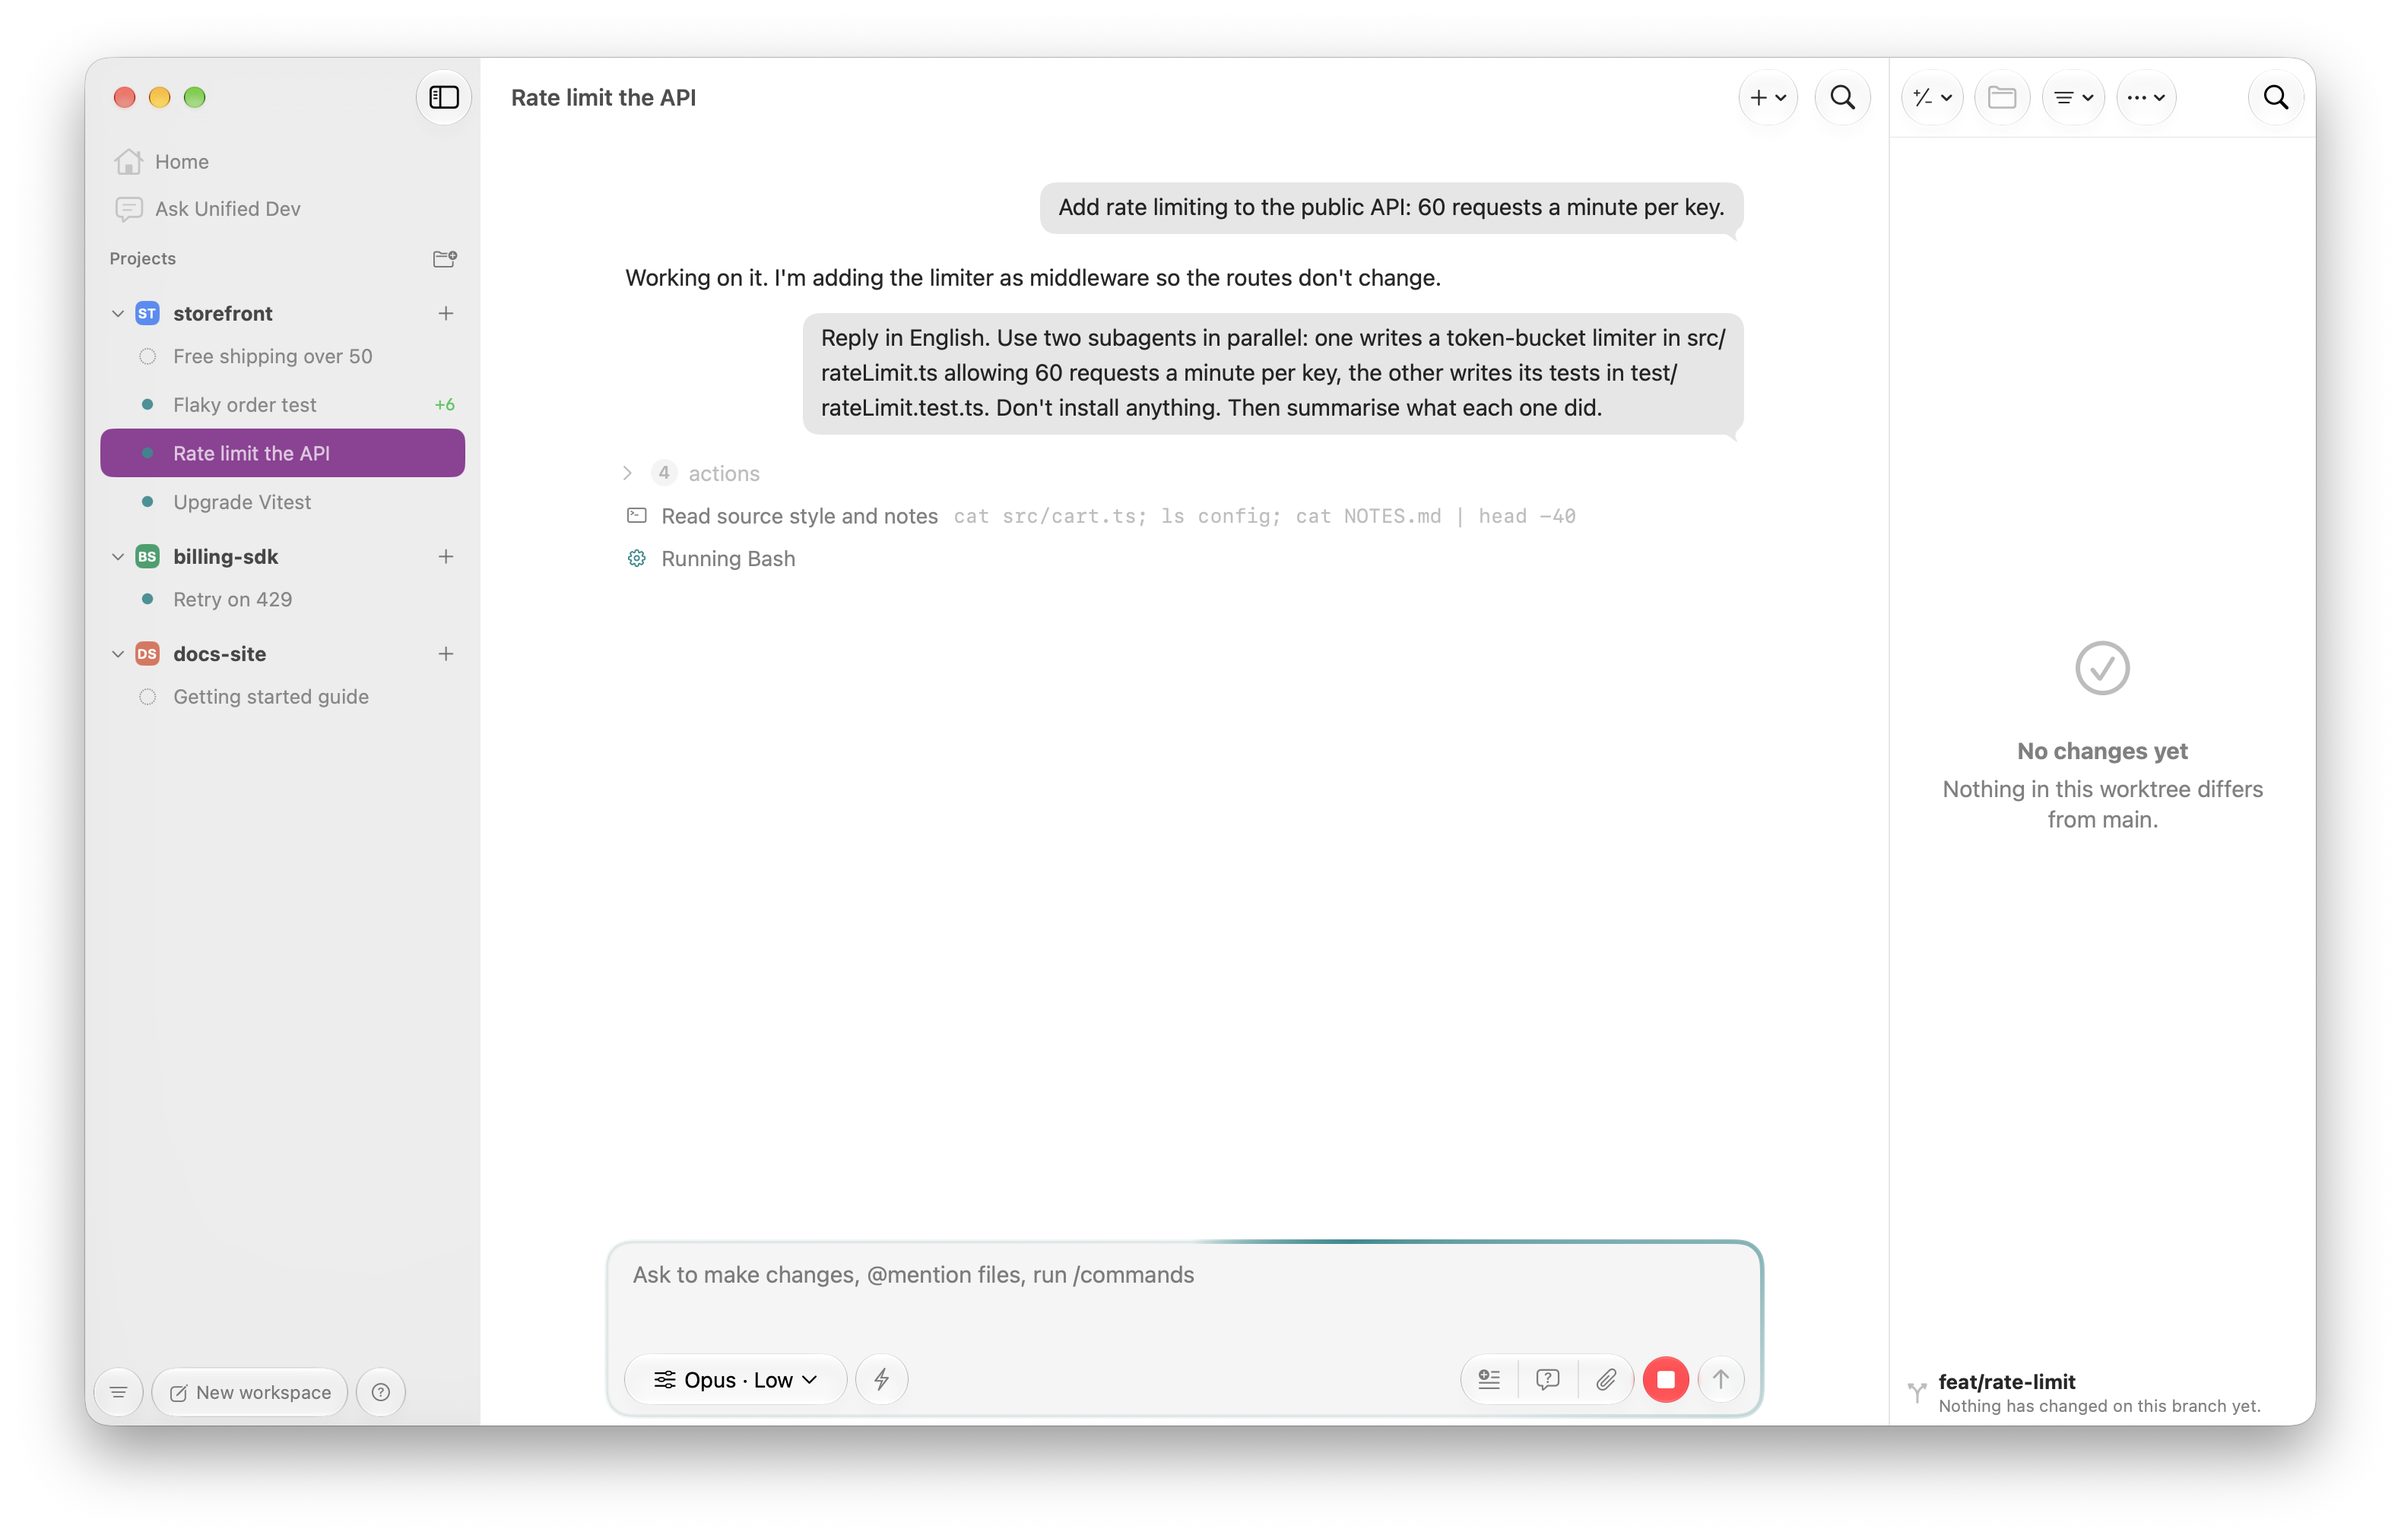
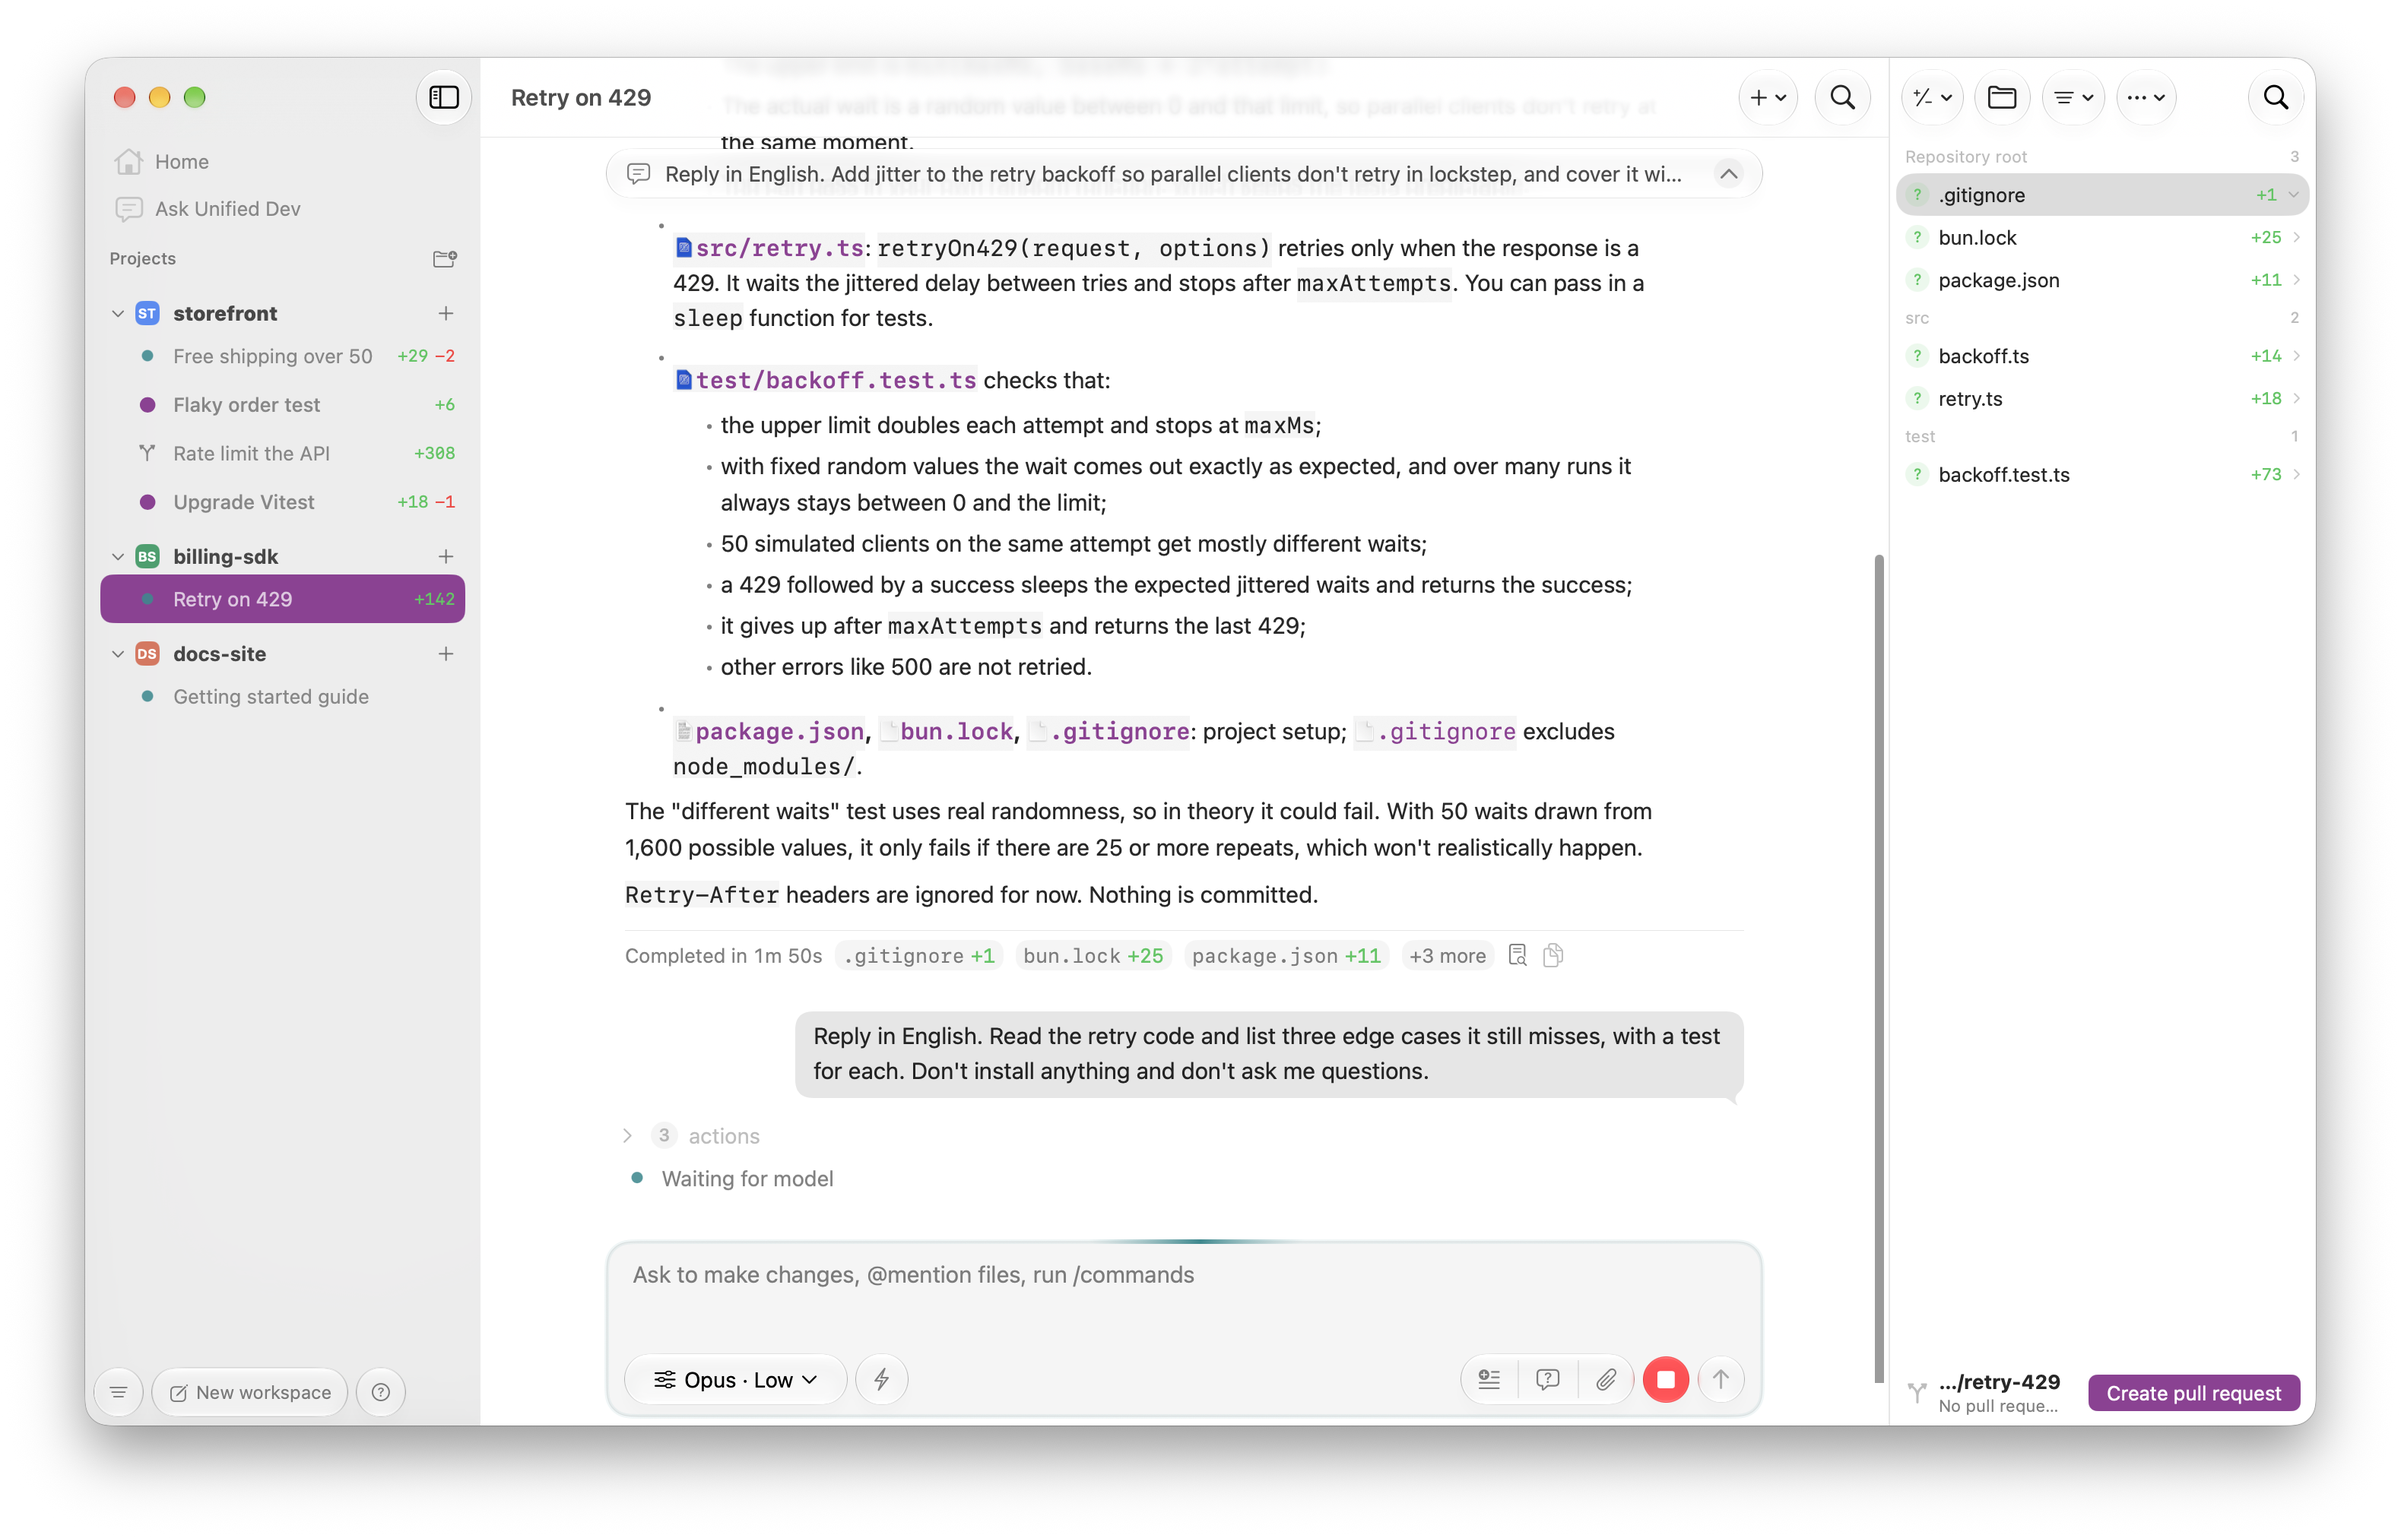
fix(unified-dev): retake the parallel agents shot and flag two painted shots for retake

diff --git a/unified-dev/SHOTLIST.md b/unified-dev/SHOTLIST.md
@@ -1,12 +1,12 @@
 # Unified Dev: shot list
 
-Screens to capture and their status. Where a shot is used lives in `social/<post>/post.md`; search for the file name to find it.
+Screens to capture and their status. Where a shot is used lives in `posts/<post>/post.md`; search for the file name to find it.
 
 - [x] `overview/01-main-window.png`: the whole window with a project open: sidebar with projects and workspaces, a transcript, the terminal and the changed files.
 - [x] `git/01-diff-inspector.png`: a real diff an agent just produced, open in the inspector.
 - [x] `agent/01-turn-running.png`: an agent mid-turn, with the Stop button visible.
-- [ ] `workspaces/01-parallel-agents.png`: RETAKE: the current file is a copy of `agent/01-turn-running.png`. Needs 3 or 4 workspaces visibly running agents at the same time, with the sidebar as the focus.
+- [x] `workspaces/01-parallel-agents.png`: 3 or 4 workspaces visibly running agents at the same time, with the sidebar as the focus.
 - [x] `archive/01-safety-report.png`: the Archive confirmation listing what would be lost.
-- [x] `settings/01-agents.png`: the Agents settings screen with the detected CLIs, account email hidden.
+- [ ] `settings/01-agents.png`: RETAKE: the account details were painted over in the image. Needs a build signed in with demo accounts, showing the Agents settings screen with the detected CLIs.
 - [x] `workspaces/02-create-sheet.png`: the sheet for creating a new workspace, with the source picker.
-- [x] `agent/02-subagents.png`: a transcript where the agent spawned subagents.
+- [ ] `agent/02-subagents.png`: RETAKE: a subagent summary line was painted over in the image. Needs a transcript where the agent spawned subagents and every line, subagent output included, is in English.

diff --git a/unified-dev/git/post.md b/unified-dev/git/post.md
@@ -1,0 +1,17 @@
+# Favourite bug: a branch called --mirror
+
+## Text: X, Bluesky
+
+Favourite bug from building Unified Dev: a branch called --mirror made our git push run as git push --mirror, which deletes remote-only branches. Now every ref goes through a validator and an explicit refspec. Branch names are user input too.
+
+## Text: LinkedIn
+
+Favourite bug from building Unified Dev:
+
+A branch called --mirror turned our git push into git push --mirror. That flag pushes every ref and deletes remote branches that don't exist locally. One badly named branch, and a remote-only branch was gone.
+
+The fix wasn't a special case for that one name. Every ref now goes through a validator, and every push uses an explicit refspec, so a branch name can never be read as an option.
+
+Branch names are user input too. So are file names, tags and commit messages, and anything you pass to a CLI deserves the same suspicion as a form field.
+
+What's the strangest input that ever broke something of yours?

diff --git a/unified-dev/archive/post.md b/unified-dev/archive/post.md
@@ -1,0 +1,11 @@
+# Unified Dev: parallel agents and the Archive safety report
+
+## Text: LinkedIn
+
+I've been building Unified Dev, a native macOS app for running coding agents in parallel. Each agent gets its own git worktree, so several of them can work on the same repo without stepping on each other.
+
+It's built with SwiftUI. One window: projects and workspaces on the left, the agent transcript in the middle, a terminal, and an inspector with the diff. It works with Claude Code and Codex.
+
+Because a workspace is a real worktree on disk, a lot of the work went into not destroying one. The first version of Archive ran git worktree remove --force and git branch -D with no checks. Uncommitted work, gone. Now it builds a safety report first, refuses by default, and tells you exactly what would be lost before you confirm.
+
+If you run more than one coding agent at a time, how do you keep them from stepping on each other?

diff --git a/unified-dev/agent/post.md b/unified-dev/agent/post.md
@@ -1,0 +1,5 @@
+# Swift concurrency: the Stop button and AsyncStream
+
+## Text: X, Bluesky
+
+Swift concurrency lesson from Unified Dev: cancelling the Task that iterates an AsyncStream ends that stream for good. Our Stop button did exactly that, so every later agent turn ran with nobody listening. The runner now multiplexes its events instead. #Swift

diff --git a/unified-dev/overview/post.md b/unified-dev/overview/post.md
@@ -1,0 +1,5 @@
+# Unified Dev: what it is
+
+## Text: X, Bluesky
+
+Something I've been building: Unified Dev, a native macOS app for running coding agents in parallel, each one in its own git worktree. Built with SwiftUI. Projects on the left, the agent transcript in the middle, a terminal and the diff on the side.
